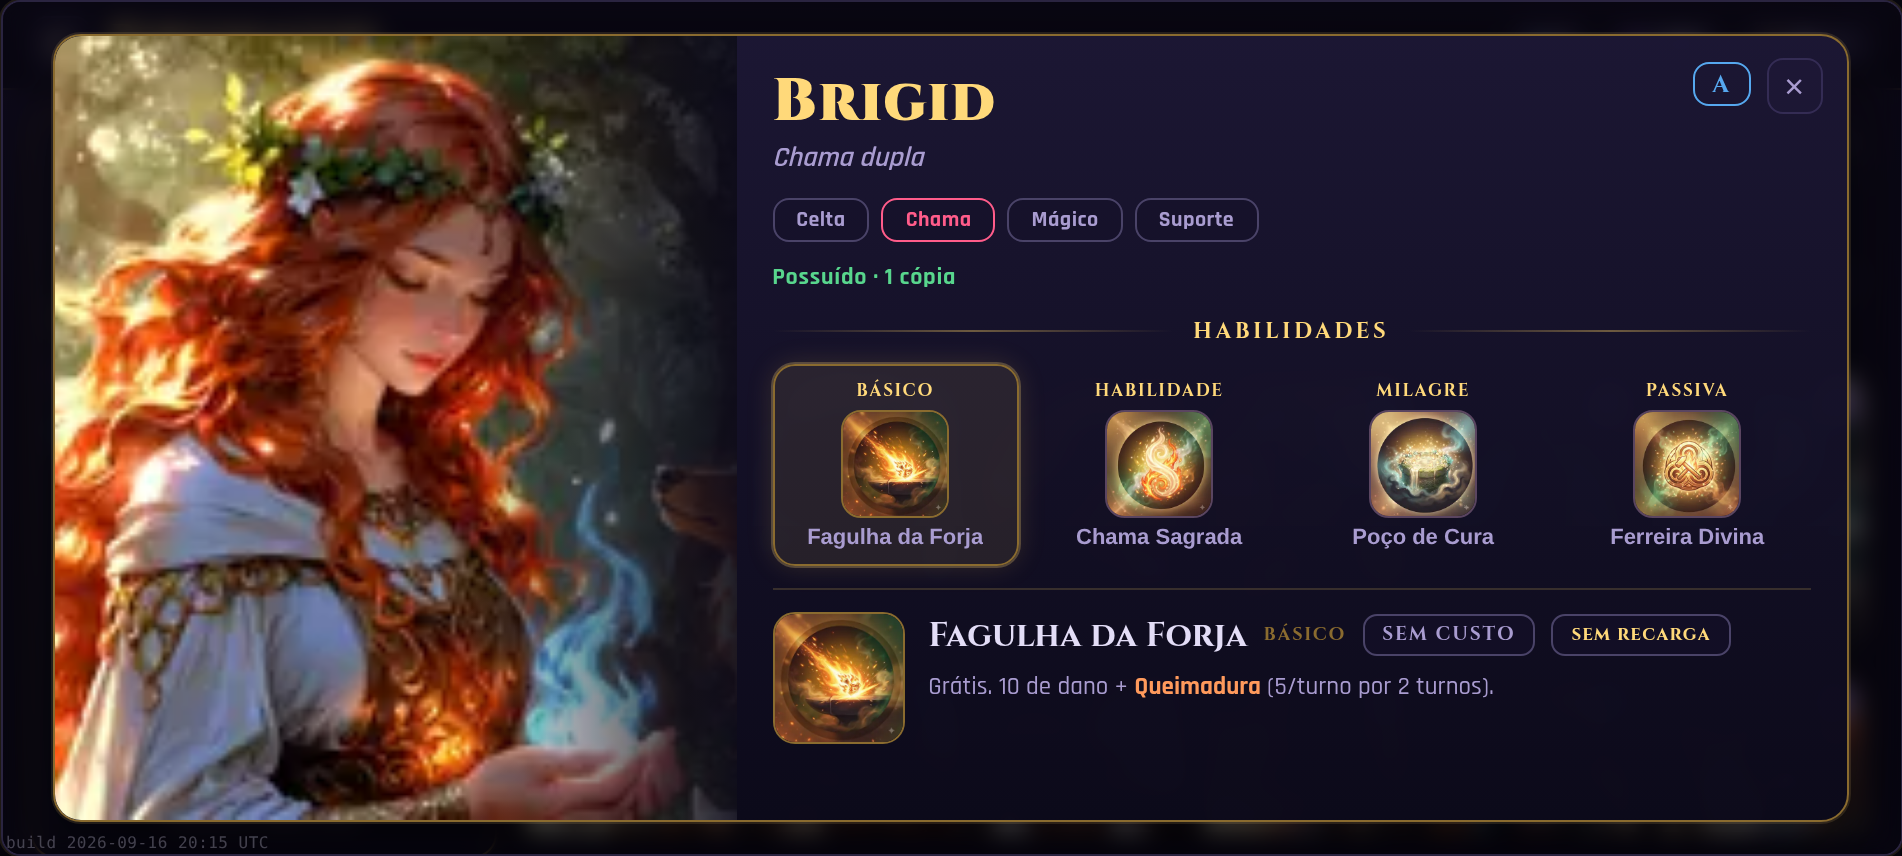
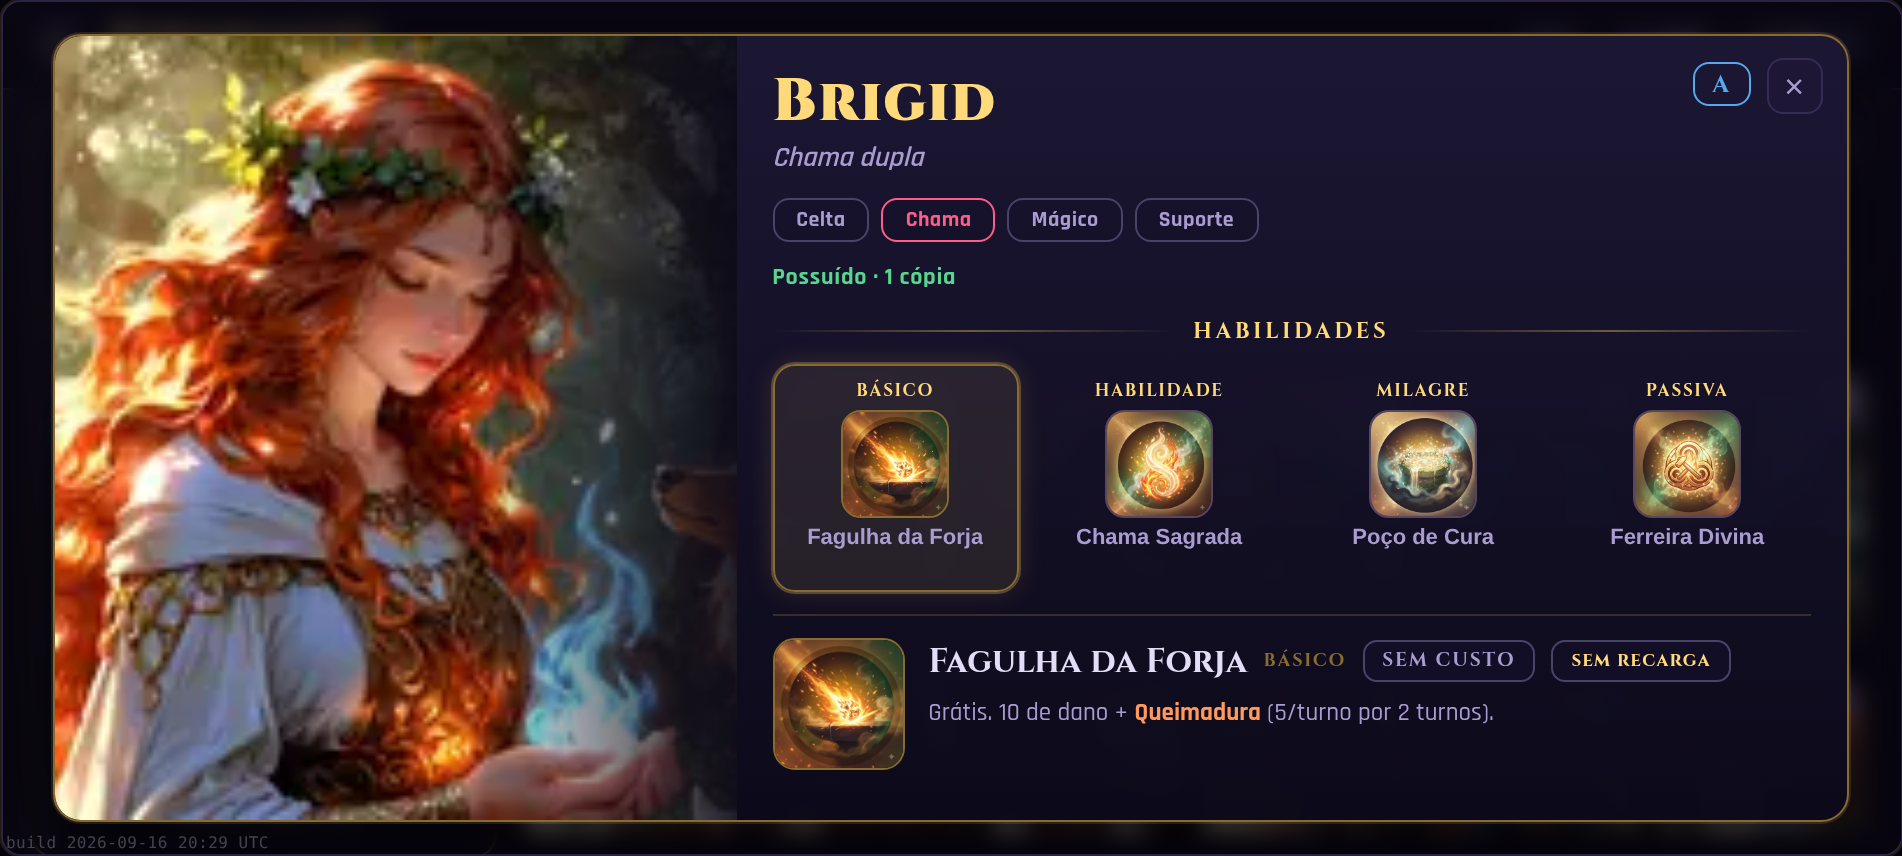
§288-ajuste: nomes de habilidade na fileira em DUAS LINHAS (reservadas), não reticência
Os 38/100 deuses cujo nome de habilidade cortava no chip agora têm o nome em
duas linhas, reservadas SEMPRE (min-height 2×1.15em + -webkit-line-clamp:2),
não sob demanda — a fileira é elemento fixo e pulo ao trocar de deus é pior
que espaço vazio. Difere do §277 (que aceitou reticência por estar no teto
físico do cartão); aqui há folga (a caixa de detalhe rola, o card tem 394px).

Medido antes de aplicar (Chromium, fontes reais, palco 951×428):
- a fileira cresce +13px (101→114);
- tira 13px da caixa de detalhe (102→89);
- nenhum deus passa a rolar o texto de efeito (0/100 antes, 0/100 depois);
- 0/100 nomes ainda cortam — duas linhas resolvem todos. A Hel ("Metade
  Viva, Metade Morta", que pedia +27px) cabe em 2 linhas, confirmado.

Arquivos: src/shell.html (.col2ov__sknome), DECISOES.md, ESTADO.md,
docs/capturas-288/d-nomes-2linhas-hel.png (+ 3 refeitas). Suíte (46) + build
verdes.

Claude-Session: https://claude.ai/code/session_01RXkcJMEMadTZtCymgt9Yf6

Changed region(s): [[0.4033, 0.6379, 0.8996, 0.9112]]

diff --git a/src/shell.html b/src/shell.html
@@ -1510,7 +1510,11 @@ body{font-family:'Rajdhani',sans-serif;color:var(--ink);display:grid;place-items
 .col2ov__skart{width:54px;height:54px;flex:0 0 auto;border-radius:10px;overflow:hidden;border:1px solid #5a4560}
 .col2ov__sk.is-sel .col2ov__skart{border-color:var(--gold-soft)}
 .col2ov__skart .slot{width:54px;height:54px}
-.col2ov__sknome{font-weight:700;font-size:11px;color:var(--ink-dim);text-align:center;line-height:1.1;max-width:100%;overflow:hidden;text-overflow:ellipsis;white-space:nowrap}
+/* §288-ajuste: DUAS linhas RESERVADAS sempre (min-height fixo), não sob demanda — a fileira é elemento fixo, e
+   pulo ao trocar de deus é pior que espaço vazio. O card tem 394px e a caixa rola, então há folga p/ a linha
+   crescer (≠ §277, que estava no teto físico do cartão e por isso aceitou reticência). */
+.col2ov__sknome{font-weight:700;font-size:11px;color:var(--ink-dim);text-align:center;line-height:1.15;max-width:100%;
+  min-height:calc(2 * 1.15em);display:-webkit-box;-webkit-line-clamp:2;-webkit-box-orient:vertical;overflow:hidden}
 .col2ov__det{flex:1 1 auto;min-height:0;display:flex;gap:12px;margin-top:11px;padding-top:11px;border-top:1px solid rgba(216,178,90,.2)}
 .col2ov__detart{flex:0 0 auto;width:66px;height:66px;border-radius:11px;overflow:hidden;border:1px solid var(--gold-soft)}
 .col2ov__detart .slot{width:66px;height:66px}

diff --git a/ESTADO.md b/ESTADO.md
@@ -10,7 +10,7 @@ Mockup aprovado. Retrato à esquerda (sangra), à direita nome+epíteto(=`arquet
 
 **Vocabulário custo/recarga: o que JÁ EXISTE** — `pipsDetalhe` diz "SEM CUSTO" (maiúsc.), a linha de kit diz "sem recarga" (minúsc.); tirei o `text-transform` do chip p/ o case vir da string. Igual à referência. Nada inventado. **Arte dos ícones: 400/400 existem** (`web/skills/skill-<deus>-<slot>.webp`) → arte real, não placeholder; `slot()` tem `onerror` (sem 404). **Citação:** campo NÃO existe (varri os 100). Reservei `g.frase` (conteúdo do dono) e renderizo condicional — sem frase o espaço SOME (§252); hoje nunca aparece. NÃO inventei. **Maestria FORA** (§284).
 
-**Geometria (medida):** ref ~1.8:1, palco 951×428 (~2.22:1); altura é o gargalo → preenchi a largura (margem fina) preservando o split interno (retrato **38%**/conteúdo **62%**), não casei a proporção (desperdiçaria metade). Card **897×394**. **Fontes reais (Chromium, rede bloqueada; corte invariante à escala → vale no piso 780):** nome **0/100** corta; arquetipo mais longo (baldur "Protetor quase-invulnerável") cabe; efeito **0/100** (envolve+rola); **nomes de habilidade no chip: 38/100 deuses têm ≥1 com reticências** (pior hel +27px) — **reportado, NÃO consertado** (rótulo+ícone desambiguam; nome completo na caixa ao tocar). **Desvio consciente:** selo de raridade segue o do jogo (§282), não o pentágono roxo do mockup (não criar 2º vocabulário).
+**Geometria (medida):** ref ~1.8:1, palco 951×428 (~2.22:1); altura é o gargalo → preenchi a largura (margem fina) preservando o split interno (retrato **38%**/conteúdo **62%**), não casei a proporção (desperdiçaria metade). Card **897×394**. **Fontes reais (Chromium, rede bloqueada; corte invariante à escala → vale no piso 780):** nome **0/100** corta; arquetipo mais longo (baldur "Protetor quase-invulnerável") cabe; efeito **0/100** (envolve+rola); **nomes de habilidade no chip: 38/100 tinham ≥1 com reticências → **§288-ajuste: DUAS LINHAS reservadas** (`min-height`+`line-clamp:2`), resolveu TODOS (0/100 cortam; Hel "Metade Viva, Metade Morta" cabe). Medido: fileira +13px (101→114), caixa de detalhe −13px (102→89), **0/100 passam a rolar** o efeito. **Desvio consciente:** selo de raridade segue o do jogo (§282), não o pentágono roxo do mockup (não criar 2º vocabulário).
 
 **Babás (`colecao_tela.test.js` §7/§7c):** 4 ícones; abre no básico; tocar troca a caixa; lê data/deuses (muda fonte→muda caixa); citação some sem frase / aparece com `g.frase`; toda arte tem `onerror` (sem 404); sem maestria. **Capturas** `docs/capturas-288/` (básico, passiva, não-possuído). Ver DECISOES §288. **Arquivos:** `src/ui/home.js`, `src/shell.html`, `tests/colecao_tela.test.js`, `tests/interface.test.js`. Suíte (46)+build verdes.
 

diff --git a/DECISOES.md b/DECISOES.md
@@ -48,9 +48,25 @@ desfocado visível) **preservando o split interno do mockup** (retrato **38%** /
 - **arquetipo: 0 corta** — o mais longo, baldur "Protetor quase-invulnerável" (27 chars), cabe em 1 linha.
 - **texto de efeito: 0/100 cortam** — envolve e rola (`overflow-y:auto`); nem precisou rolar no palco cheio.
 - **nomes de habilidade na fileira: 38/100 deuses têm ≥1 nome com reticências no chip** (o chip tem ~130px; o
-  pior é hel +27px, heimdall +15px, odin +14px, hermes +13px). **Reportado, NÃO consertado** (instrução do dono).
-  Recomendação p/ o dono decidir: nome em 2 linhas no chip, ou fonte menor — mas o rótulo do slot + o ícone já
-  desambiguam, e o nome completo está na caixa de detalhe ao tocar.
+  pior é hel +27px, heimdall +15px, odin +14px, hermes +13px). Reportado; o dono escolheu **duas linhas** →
+  resolvido no **§288-ajuste** (abaixo).
+
+### §288-ajuste — os 38 nomes cortados viram DUAS LINHAS (reservadas sempre), não reticência.
+
+O dono: "no §277 aceitei reticência porque o cartão estava no teto físico (a fileira dos três já ocupava 142 de
+138); aqui há folga — a caixa de detalhe rola e o card tem 394px. E 38 de 100 é um terço do elenco." Duas linhas
+**reservadas sempre** (`min-height:2×1.15em` + `-webkit-line-clamp:2`), NÃO sob demanda — a fileira é elemento
+fixo, e pulo ao trocar de deus é pior que espaço vazio.
+
+**MEDIDO antes de aplicar (Chromium, fontes reais, palco 951×428):**
+- a **fileira cresce +13px** (101→114px);
+- isso **tira 13px da caixa de detalhe** (102→89px);
+- **nenhum deus passa a rolar** o texto de efeito (0/100 rolavam antes, 0/100 rolam depois — os 13px não empurram
+  ninguém p/ a rolagem);
+- **0/100 nomes ainda cortam** — duas linhas resolvem TODOS. A Hel ("Metade Viva, Metade Morta", que pedia +27px)
+  cabe em 2 linhas (113=113, sem reticência), confirmado.
+
+Não precisei parar: duas linhas fecham os 38 sem custo p/ o texto de efeito. Captura `d-nomes-2linhas-hel.png`.
 
 **Desvio consciente do mockup:** o selo de raridade. A referência tem um pentágono roxo; usei o selo de raridade
 que o jogo JÁ tem (§282, hexágono/`col2p__rar--<rar>`) p/ não criar um segundo vocabulário de raridade. Estrutura
